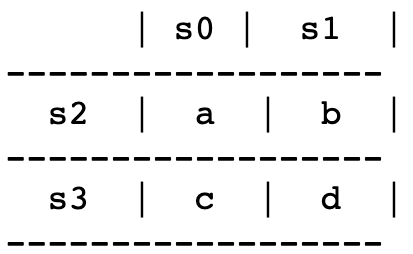
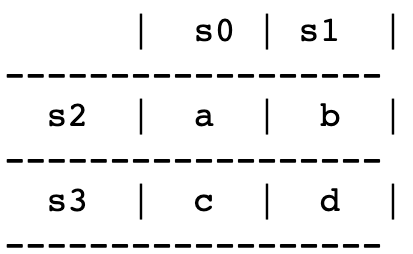
💡 improved readme

diff --git a/README.md b/README.md
@@ -28,7 +28,7 @@ This exemplary implementation can be found in the [CSP_example.ipynb](src/mqt/pr
 Here, the solution to a Kakuro riddle with a 2x2 can be solved for arbitrary sums `s0` to `s3`:
 
 <p align="center">
-<img src="img/kakuro.png" height=200px>
+<img src="img/kakuro.png" height=100px>
 </p>
 
 MQT ProblemSolver will return valid values to `a`, `b`, `c`, and `d` if a solution exists.
